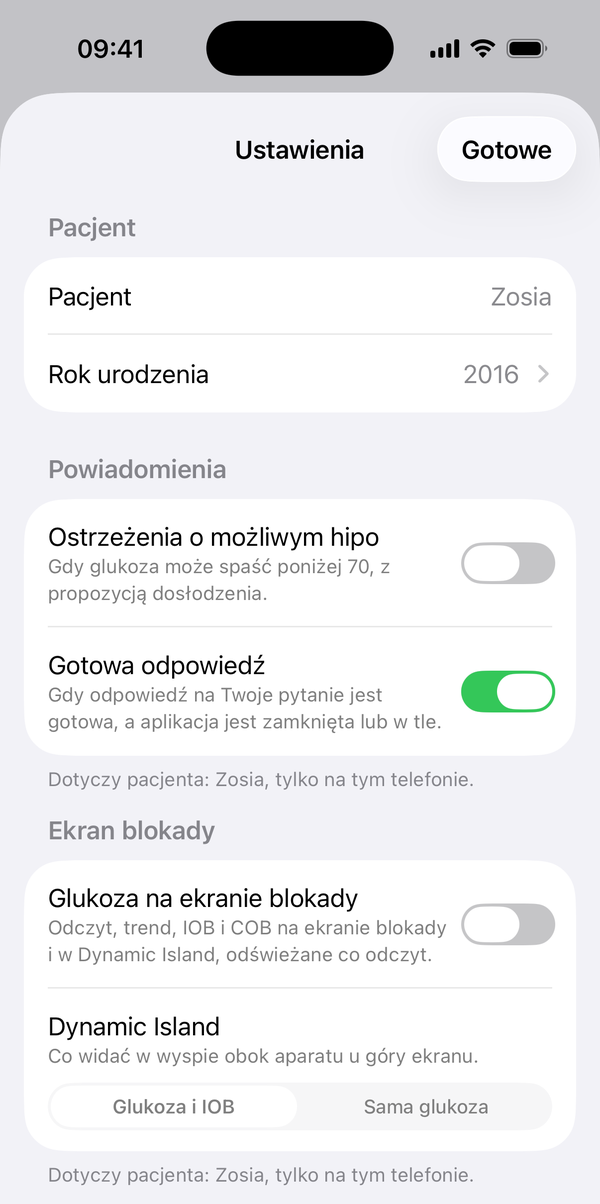
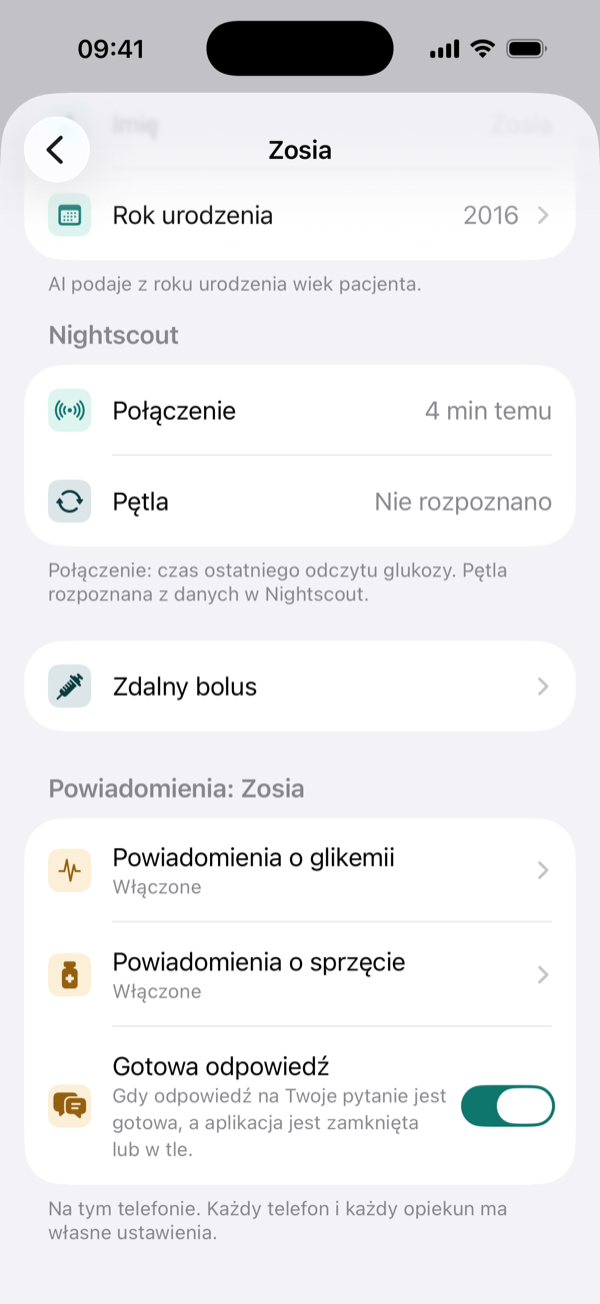
docs: glucose and equipment notifications with new settings screenshots

diff --git a/docs-site/docs/codzienne/powiadomienia.md b/docs-site/docs/codzienne/powiadomienia.md
@@ -62,32 +62,65 @@ Mellis wysyła powiadomienia z serwera, więc przychodzą także wtedy, gdy apli
     Przychodzi, gdy trzy kolejne odczyty z około 10 minut rosną. Serwer pilnuje go przez godzinę: jeśli glukoza w tym
     czasie nie zacznie rosnąć, przypomnienie wygasa bez powiadomienia.
 
-## Co możesz wyłączyć
+## Powiadomienia o glikemii
 
-W **Mellis → Ustawienia → podopieczny → Powiadomienia** są dwa ekrany i jeden przełącznik. Działają tylko na tym
-telefonie i tylko dla tego podopiecznego:
+Domyślnie są **wyłączone**. Włączasz je na każdym telefonie osobno: **Mellis → Ustawienia → podopieczny →
+Powiadomienia o glikemii**.
 
-- **Powiadomienia o glikemii**: domyślnie **wyłączone**. Na tym ekranie:
-    - główny przełącznik;
-    - **Kiedy**: każdy rodzaj osobno — glukoza nisko (poniżej 70), glukoza spada (poniżej 80, gdy spada), glukoza
-      rośnie (powyżej 160), wysoko (powyżej 180), bardzo wysoko (powyżej 250; trzy ostatnie tylko gdy rośnie),
-      szybka zmiana (dwie strzałki) i brak danych. Możesz je ustawić także przy wyłączonym głównym przełączniku;
-    - **Powtarzaj**: jak często to samo powiadomienie wraca, dopóki stan trwa — osobno dla niskiej glukozy
-      (domyślnie co 15 min) i dla pozostałych (domyślnie co 30 min), od co 5 min do co godzinę. „Co 5 min” to
-      powiadomienie przy każdym pomiarze;
-    - **Ostrzeżenia o możliwym hipo** (prognoza): domyślnie **wyłączone**, działają niezależnie od głównego
-      przełącznika. Włącz je na telefonach opiekunów, którzy mają reagować. Wyłączenie obejmuje cały telefon, także
-      po ponownej instalacji aplikacji.
-- **Powiadomienia o sprzęcie**:
-    - **Zbiornik insuliny**: domyślnie włączone. Przychodzi raz, gdy insuliny wystarczy na mniej niż dobę, i drugi
-      raz, gdy na mniej niż 8 godzin. Kolejne przyjdą dopiero po napełnieniu zbiornika (wpis „Insulin Change”
-      w Nightscoucie albo wyraźnie więcej jednostek w odczycie pompy).
-    - **Bateria pompy**: domyślnie włączone. Raz poniżej 25 % i raz poniżej 15 %. Kolejne przyjdą dopiero po
-      naładowaniu albo wymianie baterii (wzrost o co najmniej 10 punktów). Potrzebny jest procent baterii w danych
-      pompy w Nightscoucie.
-- **Gotowa odpowiedź**: domyślnie włączone.
+| Kiedy | Tytuł | Opis |
+|---|---|---|
+| glukoza poniżej 70 | **❗ 65 ↘ −4** (czerwony wykrzyknik) | Glukoza nisko, spada (albo „rośnie”, albo nic, gdy stoi) |
+| 70–79 i spada | **⚠ 76 ↓ −11** | Glukoza spada |
+| powyżej 160 i rośnie | **⚠ 165 ↗ +7** | Glukoza rośnie |
+| powyżej 180 i rośnie | **⚠ 185 ↑ +11** | Glukoza wysoko, rośnie |
+| powyżej 250 i rośnie | **⚠ 255 ↑ +12** | Glukoza bardzo wysoko, rośnie |
+| dwie strzałki (⇈ albo ⇊) | **Glukoza szybko rośnie** / **Glukoza szybko spada** | 140 ⇊ −19 |
+| 10 minut bez pomiaru | **Brak danych** | Brak pomiarów od 12 min. |
 
-Na telefonie bez internetu powiadomienia nie przyjdą, w tym „Brak danych”: wysyła je serwer.
+Tytuł to obecna glukoza, strzałka trendu i zmiana w 5 minut, a pod opisem jest linijka z **IOB i COB**, np.
+„IOB 1,3 j · COB 15 g”. „Rośnie” i „spada” Mellis bierze ze strzałki, którą widzisz w aplikacji (kierunek
+z Nightscouta, a bez niego zmiana w 5 minut).
+
+- Serwer sprawdza każdy nowy pomiar raz. Na jeden pomiar telefon dostaje najwyżej jedno powiadomienie: najważniejsze
+  z tych, które masz włączone (niska glukoza przed szybką zmianą, szybka zmiana przed wysoką glukozą).
+- Dopóki stan trwa, to samo powiadomienie wraca po czasie z sekcji **Powtarzaj**. Wyższy próg przychodzi od razu
+  (np. z 180 na 250), a niższy nie wraca, dopóki nie minie czas od wyższego.
+- **Brak danych** przychodzi po 10 minutach bez pomiaru i potem co 5 minut, dopóki pomiary nie wrócą.
+- Nowe powiadomienie o glikemii zastępuje poprzednie na ekranie blokady, więc widzisz tylko obecny stan. Nie trafia
+  do dzwonka w aplikacji.
+- Niska glukoza i szybki spadek przebijają się przez tryb skupienia (powiadomienia „na czas”).
+
+<div class="grid" markdown>
+
+<figure class="screen" markdown>
+![Powiadomienia o glikemii](../assets/screens/powiadomienia-glikemia.png){ loading=lazy }
+<figcaption>Główny przełącznik i każdy rodzaj osobno. Rodzaje możesz ustawić także przy wyłączonym głównym przełączniku.</figcaption>
+</figure>
+
+<figure class="screen" markdown>
+![Powtarzanie i prognoza](../assets/screens/powiadomienia-powtarzanie.png){ loading=lazy }
+<figcaption>Powtarzaj: osobno dla niskiej glukozy i dla pozostałych, od co 5 minut do co godzinę. Niżej ostrzeżenia z prognozy.</figcaption>
+</figure>
+
+</div>
+
+## Powiadomienia o sprzęcie
+
+**Mellis → Ustawienia → podopieczny → Powiadomienia o sprzęcie.** Oba są domyślnie włączone.
+
+- **Zbiornik insuliny**: raz, gdy insuliny wystarczy na mniej niż dobę, i drugi raz, gdy na mniej niż 8 godzin.
+  Kolejne przyjdą dopiero po napełnieniu zbiornika (wpis „Insulin Change” w Nightscoucie albo wyraźnie więcej
+  jednostek w odczycie pompy).
+- **Bateria pompy**: raz poniżej 25 % („Słaba bateria pompy”) i raz poniżej 15 % („Bateria pompy prawie pusta”).
+  Kolejne przyjdą dopiero po naładowaniu albo wymianie baterii (wzrost o co najmniej 10 punktów). Potrzebny jest
+  procent baterii, który pętla wysyła do Nightscouta; bez niego to powiadomienie nie przyjdzie.
+
+Odczyt pompy starszy niż 6 godzin nie wywołuje powiadomienia. Stuknięcie otwiera listę sprzętu na dashboardzie.
+
+<figure class="screen" markdown>
+![Powiadomienia o sprzęcie](../assets/screens/powiadomienia-sprzet.png){ loading=lazy }
+<figcaption>Zbiornik insuliny i bateria pompy, każde z własnym przełącznikiem.</figcaption>
+</figure>
 
 !!! info "Skąd Mellis wie, na ile wystarczy insuliny"
     Serwer liczy średnie dzienne zużycie insuliny (bolusy, w tym zdalne i ręczne, SMB i podana baza z bazami
@@ -95,10 +128,24 @@ Na telefonie bez internetu powiadomienia nie przyjdą, w tym „Brak danych”: 
     insuliny) i potrzebuje co najmniej 2 takich dni. Bez tego kolor zbiornika zależy od procentu napełnienia
     (żółty poniżej 15 %, czerwony poniżej 7 %), a gdy i tego nie wiadomo, od 25 i 10 jednostek.
 
+## Co możesz wyłączyć
+
+W **Mellis → Ustawienia → podopieczny** jest sekcja **Powiadomienia**. Wszystko w niej działa tylko na tym telefonie
+i tylko dla tego podopiecznego; każdy opiekun ustawia swój telefon sam.
+
+- **Powiadomienia o glikemii** (ekran): domyślnie **wyłączone**; główny przełącznik, rodzaje, powtarzanie.
+- **Ostrzeżenia o możliwym hipo** (na tym samym ekranie, w sekcji „Prognoza”): domyślnie **wyłączone**, działają
+  niezależnie od głównego przełącznika. Włącz je na telefonach opiekunów, którzy mają reagować. Wyłączenie obejmuje
+  cały telefon, także po ponownej instalacji aplikacji.
+- **Powiadomienia o sprzęcie** (ekran): zbiornik i bateria pompy, domyślnie włączone.
+- **Gotowa odpowiedź**: domyślnie włączone.
+
 <figure class="screen" markdown>
-![Przełączniki powiadomień](../assets/screens/ustawienia-powiadomienia.png){ loading=lazy }
-<figcaption>Mellis → Ustawienia: przełączniki dla wybranego podopiecznego, tylko na tym telefonie.</figcaption>
+![Powiadomienia w ustawieniach podopiecznego](../assets/screens/ustawienia-powiadomienia.png){ loading=lazy }
+<figcaption>Mellis → Ustawienia → podopieczny: dwa ekrany powiadomień i „Gotowa odpowiedź”, tylko na tym telefonie.</figcaption>
 </figure>
+
+Na telefonie bez internetu powiadomienia nie przyjdą, w tym „Brak danych”: wysyła je serwer.
 
 Przypomnień nie wyłączasz osobno: przychodzą tylko wtedy, gdy sam je ustawiłeś. Opiekun z samym uprawnieniem
 „Glukoza i alarmy” dostaje tylko powiadomienia o glukozie i o sprzęcie.

diff --git a/docs-site/docs/co-potrafi.md b/docs-site/docs/co-potrafi.md
@@ -135,6 +135,10 @@ Bolus i węglowodany wysłane prosto do Trio albo Loopa. Karta pojawia się po u
 - **Ostrzeżenie o możliwym niedocukrzeniu** z propozycją węglowodanów, zanim glukoza spadnie poniżej 70 mg/dL.
   Domyślnie wyłączone: włączasz je na każdym telefonie osobno. Mellis czyta tu prognozę pętli (Trio albo Loopa)
   bez dodatkowych korekt i potwierdza ją odczytami z sensora.
+- **Powiadomienia o glikemii**: glukoza niska, spadająca, rosnąca, wysoka, bardzo szybka zmiana i brak danych.
+  W tytule glukoza, strzałka i zmiana, pod spodem IOB i COB. Domyślnie wyłączone; każdy rodzaj i to, jak często
+  wraca (od co 5 minut), ustawiasz na każdym telefonie osobno.
+- **Powiadomienia o sprzęcie**: kończąca się insulina w zbiorniku i słaba bateria pompy.
 - **Przypomnienia** o drugiej części bolusa, o dawce na tłuszcz i białko i te ustawione w czacie.
 - **„Odpowiedź gotowa”**, gdy AI odpowie na Twoje pytanie, a aplikacja jest zamknięta albo w tle.
 

diff --git a/docs-site/docs/pomoc/problemy.md b/docs-site/docs/pomoc/problemy.md
@@ -95,8 +95,10 @@ open ~/.mellis/xcodebuild.log
 
 ??? failure "Nie przychodzą powiadomienia"
     1. **Ustawienia iOS → Powiadomienia → Mellis**: czy są włączone?
-    2. **Mellis → Ustawienia → Powiadomienia**: ostrzeżenia o hipo są domyślnie wyłączone, włącz je na tym telefonie.
-    3. Na serwerze: `mellis` → **Status i logi**. Szukaj błędów APNs. Najczęstsza przyczyna to klucz `.p8`
+    2. **Mellis → Ustawienia → podopieczny → Powiadomienia o glikemii**: powiadomienia o glikemii i ostrzeżenia
+       o możliwym hipo są domyślnie wyłączone, włącz je na tym telefonie. Sprawdź też, czy dany rodzaj jest włączony.
+    3. Powiadomienie o baterii pompy przychodzi tylko wtedy, gdy pętla wysyła do Nightscouta procent baterii.
+    4. Na serwerze: `mellis` → **Status i logi**. Szukaj błędów APNs. Najczęstsza przyczyna to klucz `.p8`
        z innego konta niż to, którym zbudowano aplikację.
 
 ??? failure "Dane się nie odświeżają"

diff --git a/docs-site/docs/instalacja/parowanie.md b/docs-site/docs/instalacja/parowanie.md
@@ -43,7 +43,7 @@ Zwykle nic nie musisz robić: połączył się sam podczas [instalacji aplikacji
 
     | Uprawnienie | Co daje |
     |---|---|
-    | Glukoza i alarmy | dashboard, wykres, ostrzeżenia o glukozie |
+    | Glukoza i alarmy | dashboard, wykres, powiadomienia o glikemii i o sprzęcie, ostrzeżenia o możliwym hipo |
     | Rozmowy z AI i posiłki | czat, posiłki, przypomnienia i pozostałe powiadomienia |
     | Zarządza udostępnianiem | **współwłaściciel**: to samo co Ty, także zapraszanie i zdalny bolus dla innych |
     | Zdalny bolus | wysyłanie bolusa i węglowodanów do Trio albo Loopa (wymaga też „Rozmowy z AI i posiłki”) |
